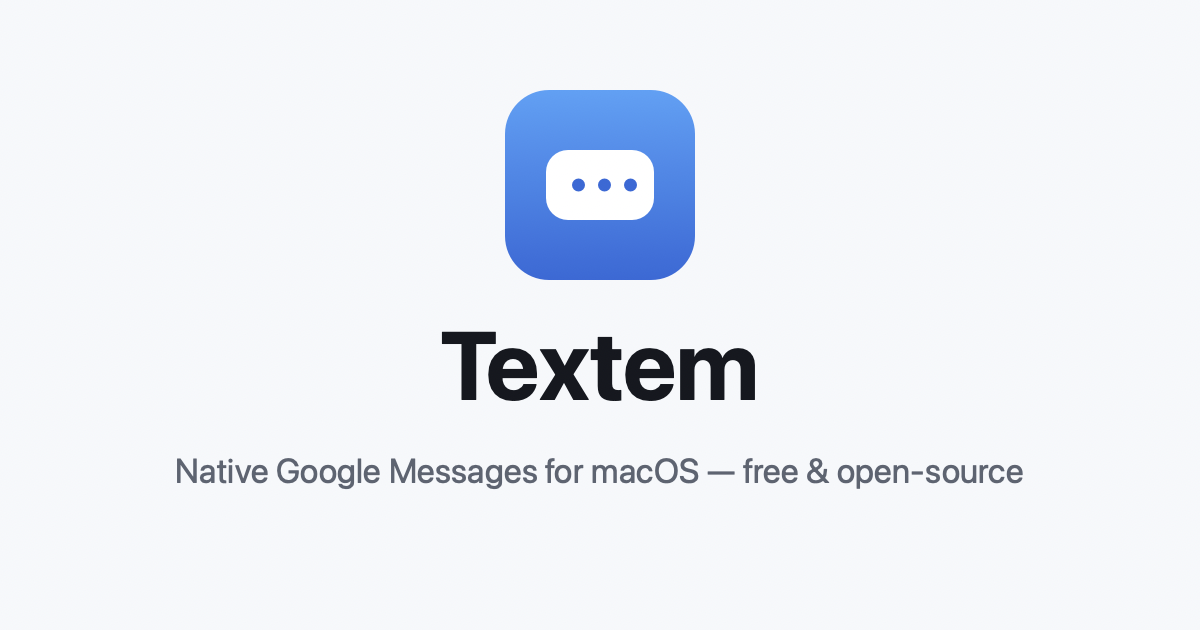
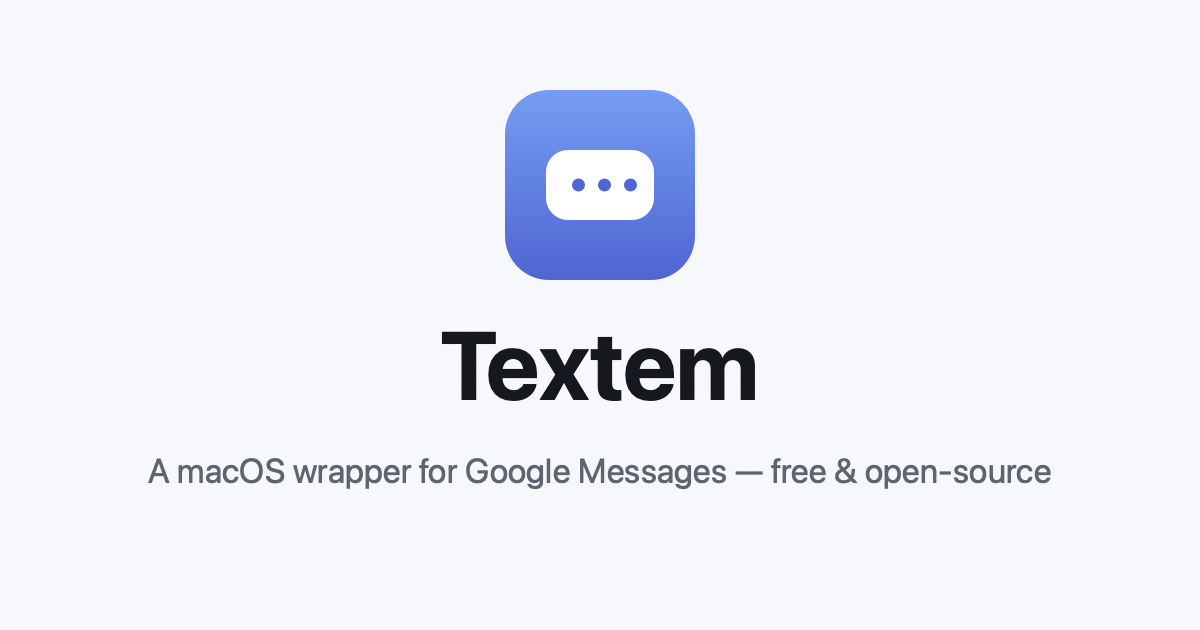
docs: describe Textem as a wrapper, not a native macOS client
Trigger: owner direction on 2026-11-16, ahead of this week's public
release: "we are a wrapper" and "don't describe as a native macOS app".

Evidence: README line 3, the landing page title, meta/OG/Twitter
descriptions, hero tagline and privacy FAQ, and the social-share image all
called Textem a "native macOS client" / "native Google Messages for macOS".
Textem hosts Google's web client in a WKWebView; the native protocol client
was scrapped (Phase 9), so "wrapper" is also the accurate term.

Change: reword those to "macOS wrapper for Google Messages for web" and
regenerate docs/og-image.png from tools/gen-og-image.swift. Feature claims
that are literally native macOS features (notifications, Dock badge) and the
Google trademark disclaimer are unchanged.

Not done: nothing pushed, so the public site still shows the old wording.

Changed region(s): [[0.1233, 0.7238, 0.8942, 0.7841]]

diff --git a/docs/index.html b/docs/index.html
@@ -3,8 +3,8 @@
 <head>
   <meta charset="utf-8">
   <meta name="viewport" content="width=device-width, initial-scale=1">
-  <title>Textem — native Google Messages for macOS</title>
-  <meta name="description" content="A lightweight, free, MIT-licensed native macOS client for Google Messages for web. Dock badge, native notifications, menu bar, multiple accounts.">
+  <title>Textem — a macOS wrapper for Google Messages</title>
+  <meta name="description" content="A lightweight, free, MIT-licensed macOS wrapper for Google Messages for web. Dock badge, native notifications, menu bar, multiple accounts.">
   <link rel="canonical" href="https://textem.scarcrux.com/">
   <link rel="icon" href="favicon.svg" type="image/svg+xml">
   <meta name="theme-color" content="#f6f8fb" media="(prefers-color-scheme: light)">
@@ -12,8 +12,8 @@
   <!-- Open Graph -->
   <meta property="og:type" content="website">
   <meta property="og:site_name" content="Textem">
-  <meta property="og:title" content="Textem — native Google Messages for macOS">
-  <meta property="og:description" content="A lightweight, free, MIT-licensed native macOS client for Google Messages for web. Dock badge, native notifications, menu bar, multiple accounts.">
+  <meta property="og:title" content="Textem — a macOS wrapper for Google Messages">
+  <meta property="og:description" content="A lightweight, free, MIT-licensed macOS wrapper for Google Messages for web. Dock badge, native notifications, menu bar, multiple accounts.">
   <meta property="og:url" content="https://textem.scarcrux.com/">
   <meta property="og:image" content="https://textem.scarcrux.com/og-image.png">
   <meta property="og:image:width" content="1200">
@@ -21,8 +21,8 @@
   <meta property="og:image:alt" content="Textem app icon and wordmark">
   <!-- Twitter -->
   <meta name="twitter:card" content="summary_large_image">
-  <meta name="twitter:title" content="Textem — native Google Messages for macOS">
-  <meta name="twitter:description" content="A lightweight, free, MIT-licensed native macOS client for Google Messages for web.">
+  <meta name="twitter:title" content="Textem — a macOS wrapper for Google Messages">
+  <meta name="twitter:description" content="A lightweight, free, MIT-licensed macOS wrapper for Google Messages for web.">
   <meta name="twitter:image" content="https://textem.scarcrux.com/og-image.png">
   <style>
     :root {
@@ -144,7 +144,7 @@
   <header class="wrap">
     <span class="icon" aria-hidden="true"></span>
     <h1>Textem</h1>
-    <p class="tag">A lightweight, native macOS client for Google Messages — free and MIT-licensed. The tiny-footprint alternative to paid wrappers and dead Electron apps.</p>
+    <p class="tag">A lightweight macOS wrapper for Google Messages for web — free and MIT-licensed. The tiny-footprint alternative to paid wrappers and dead Electron apps.</p>
     <div class="btns">
       <span class="btn primary disabled" aria-disabled="true">Signed download coming with 1.0</span>
     </div>
@@ -157,7 +157,7 @@
       <div class="grid">
         <div class="feat"><h3>Native notifications + badge</h3><p>Dock unread badge and native banners — click to jump to the thread.</p></div>
         <div class="feat"><h3>Menu bar &amp; background</h3><p>Menu-bar presence, launch at login, run in background, menu-bar-only mode.</p></div>
-        <div class="feat"><h3>Multiple accounts</h3><p>Isolated sessions per Google account with a quick switcher. No other client does this.</p></div>
+        <div class="feat"><h3>Multiple accounts</h3><p>Isolated sessions per Google account with a quick switcher. No other wrapper does this.</p></div>
         <div class="feat"><h3>Shortcuts</h3><p>Zoom, find in page, new conversation, copy latest 2FA code, global show/hide hotkey.</p></div>
         <div class="feat"><h3>Private by design</h3><p>Textem adds no telemetry or relay server. Your local session connects directly to Google’s web client.</p></div>
         <div class="feat"><h3>Free &amp; MIT-licensed</h3><p>Every feature paid wrappers lock behind “Pro,” at no cost. Public source is planned for 1.0.</p></div>
@@ -202,7 +202,7 @@
       </details>
       <details class="faq">
         <summary>Is my data private?</summary>
-        <p>Yes. Textem is just a native shell around Google’s own web client: your session lives locally on your Mac, there’s zero telemetry, and nothing sits between you and Google — no third-party account, no relay server.</p>
+        <p>Yes. Textem is just a wrapper around Google’s own web client: your session lives locally on your Mac, there’s zero telemetry, and nothing sits between you and Google — no third-party account, no relay server.</p>
       </details>
     </section>
   </main>

diff --git a/tools/gen-og-image.swift b/tools/gen-og-image.swift
@@ -51,7 +51,7 @@ func draw(_ s: String, size: CGFloat, weight: NSFont.Weight, hex: UInt32, y: CGF
 }
 
 draw("Textem", size: 96, weight: .bold, hex: 0x14181f, y: 210)
-draw("Native Google Messages for macOS — free & open-source", size: 34, weight: .regular, hex: 0x5b6472, y: 140)
+draw("A macOS wrapper for Google Messages — free & open-source", size: 34, weight: .regular, hex: 0x5b6472, y: 140)
 
 img.unlockFocus()
 

diff --git a/README.md b/README.md
@@ -1,13 +1,13 @@
 # Textem
 
-A lightweight, **native** macOS client for [Google Messages for web](https://messages.google.com/web) —
+A lightweight macOS wrapper for [Google Messages for web](https://messages.google.com/web) —
 free and MIT-licensed. Textem hosts the Google Messages web client in a
 `WKWebView` and wraps it in real macOS chrome: dock unread badge, native
 notifications, menu-bar presence, launch-at-login, zoom, and more.
 
 It's a free/open alternative to the paid **Texty for Google Messages** and the
-no-longer-maintained Electron app **android-messages-desktop** — but native
-(Swift 6 / AppKit / system WebKit), so it's a few MB instead of a bundled
+no-longer-maintained Electron app **android-messages-desktop** — built on
+Swift 6 / AppKit and the system WebKit, so it's a few MB instead of a bundled
 Chromium.
 
 > Unofficial. Not affiliated with, endorsed by, or sponsored by Google.
